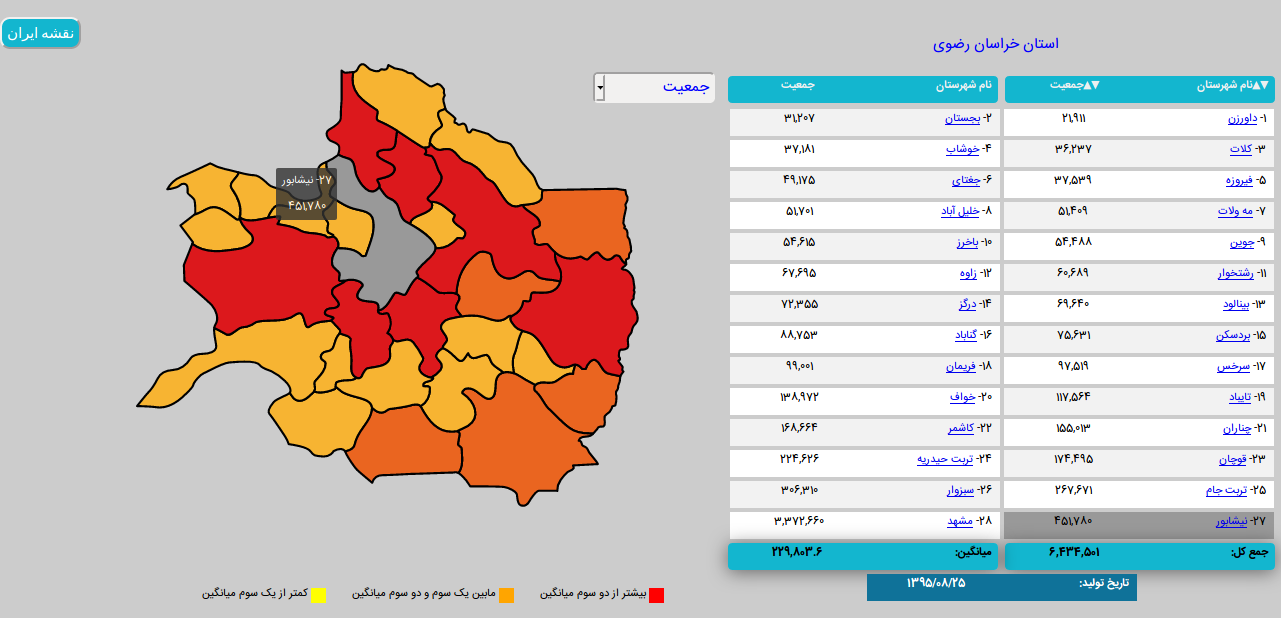
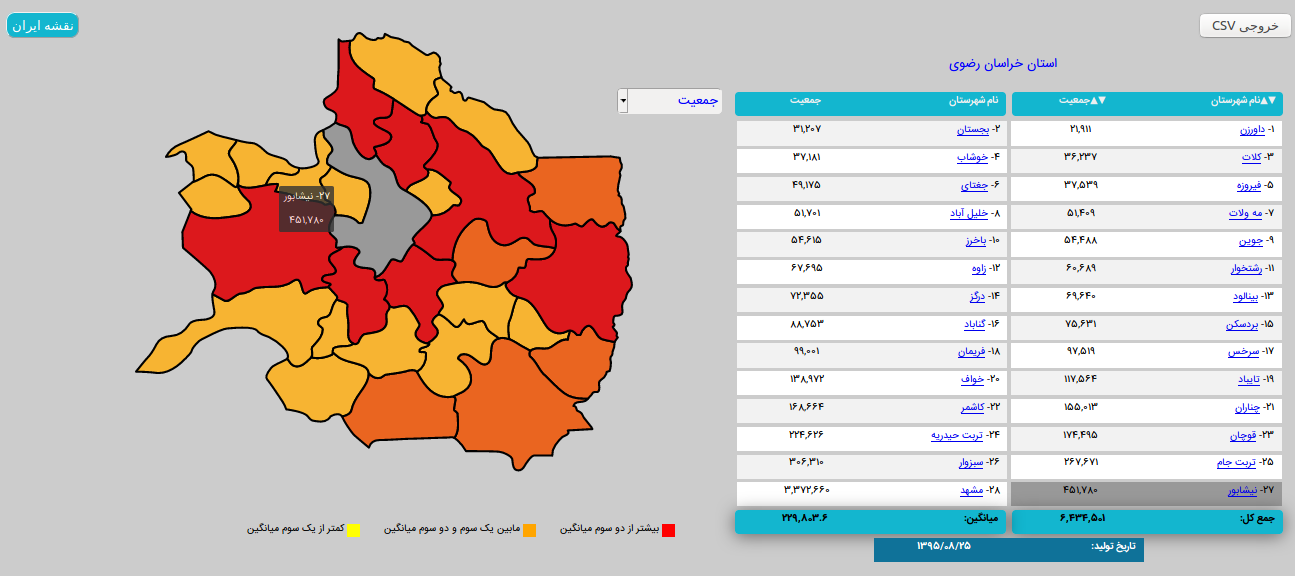
export CSV file added

diff --git a/js/exportCSV.js b/js/exportCSV.js
@@ -1,0 +1,66 @@
+$('#export').click(function(e) {
+	
+  e.preventDefault();	
+  var titles = [];
+  var data = [];
+
+  /*
+   * Get the table headers, this will be CSV headers
+   * The count of headers will be CSV string separator
+   */
+  $('table tr:eq(1) th').each(function() {
+    titles.push($(this).text());
+  });
+
+  /*
+   * Get the actual data, this will contain all the data, in 1 array
+   */
+  $('table td').each(function() {
+	  if ($(this).find("a").length != 0)
+		 data.push($(this).find("a").text());
+	  else
+         data.push($(this).text());
+  });
+  
+  /*
+   * Convert our data to CSV string
+   */
+  var CSVString = prepCSVRow(titles, titles.length, '');
+  CSVString = prepCSVRow(data, titles.length, CSVString);
+
+  /*
+   * Make CSV downloadable
+   */
+  var downloadLink = document.createElement("a");
+  var blob = new Blob([CSVString]);
+  var url = URL.createObjectURL(blob);
+  downloadLink.href = url;
+  downloadLink.download = "data.csv";
+
+  /*
+   * Actually download CSV
+   */
+
+  document.body.appendChild(downloadLink);
+  downloadLink.click();
+  document.body.removeChild(downloadLink);
+});
+
+   /*
+* Convert data array to CSV string
+* @param arr {Array} - the actual data
+* @param columnCount {Number} - the amount to split the data into columns
+* @param initial {String} - initial string to append to CSV string
+* return {String} - ready CSV string
+*/
+function prepCSVRow(arr, columnCount, initial) {
+  var row = ''; // this will hold data
+  var delimeter = ','; // data slice separator, in excel it's `;`, in usual CSv it's `,`
+  var newLine = '\r\n'; // newline separator for CSV row
+
+  arr.forEach(function(arrItem, idx) {
+      row += '"' + arrItem + '"' + ((idx+1)%columnCount == 0 ? newLine : delimeter);
+  });
+
+  return initial + row;
+}

diff --git a/iranmap.html b/iranmap.html
@@ -9,6 +9,10 @@
         <script type="text/javascript" src="js/hover_x.js"></script>		
 		<script type="text/javascript" src="js/sort_table.js"></script>
 		<script type="text/javascript" src="js/DropdownSel.js"></script>
+        <script>
+	     sessionStorage.setItem("map_type", "Prov");
+	</script>
+
     </head>
 	
     <body>
@@ -1817,6 +1821,8 @@
             </div>
 			
             <div id="items_list">
+			   <button id="export" type="button">خروجی CSV</button>
+
 			   <div id="items_table">
                <table>
 			      <thead>
@@ -2068,8 +2074,6 @@
 				
             </div>
         </div>
-	    <script>
-		   	sessionStorage.setItem("map_type", "Prov");
-		</script>
+		<script type="text/javascript" src="js/exportCSV.js"></script> 
     </body>
 </html>

diff --git a/js/load_x.js b/js/load_x.js
@@ -84,6 +84,7 @@ function load_HTML(fname_HTML) {
 		$.getScript("./js/hover_x.js");  // Both county and main map need the script
 		$.getScript("./js/sort_table.js"); // Both county and main map need the script
 		$.getScript("./js/DropdownSel.js"); // Both county and main map need the script
+		$.getScript("./js/exportCSV.js"); // Both county and main map need the script
 
 			
 		if(fname_HTML.includes("iranmap")) {   

diff --git a/Counties_in_Province/09-chahar-mahaal-bakhtiari/chahar-mahaal-bakhtiari_counties.html b/Counties_in_Province/09-chahar-mahaal-bakhtiari/chahar-mahaal-bakhtiari_counties.html
@@ -26,6 +26,8 @@
             </div>
 			
             <div id="items_list">
+		       <button id="export">خروجی CSV</button>
+
 		       <div id="prov_name" data-province-name="chahar-mahaal-bakhtiari"><p>استان چهارمحال و بختیاری</p></div>
 
   			   <div id="items_table">

diff --git a/Counties_in_Province/23-kohgiluyeh-boyer-ahmad/kohgiluyeh-boyer-ahmad_counties.html b/Counties_in_Province/23-kohgiluyeh-boyer-ahmad/kohgiluyeh-boyer-ahmad_counties.html
@@ -24,6 +24,8 @@
             </div>
 			
             <div id="items_list">
+			   <button id="export">خروجی CSV</button>
+
 			   <div id="prov_name" data-province-name="kohgiluyeh-boyer-ahmad"><p>استان کهگیلویه و بویراحمد</p></div>
 
 			   <div id="items_table">

diff --git a/Counties_in_Province/16-sistan-baluchestan/sistan-baluchestan_counties.html b/Counties_in_Province/16-sistan-baluchestan/sistan-baluchestan_counties.html
@@ -35,6 +35,8 @@
             </div>
 			
             <div id="items_list">
+			   <button id="export">خروجی CSV</button>
+
 			   <div id="prov_name" data-province-name="sistan-baluchestan"><p>استان سیستان و بلوچستان</p></div>
 
 			   <div id="items_table">

diff --git a/Counties_in_Province/02-azerbaijan-west/azerbaijan-west_counties.html b/Counties_in_Province/02-azerbaijan-west/azerbaijan-west_counties.html
@@ -34,6 +34,8 @@
             </div>
 			
             <div id="items_list">
+		       <button id="export">خروجی CSV</button>
+
 		       <div id="prov_name" data-province-name="azerbaijan-west"><p>آذربایجان غربی</p></div>
 			   
 			   <div id="items_table">

diff --git a/Counties_in_Province/12-khorasan-north/khorasan-north_counties.html b/Counties_in_Province/12-khorasan-north/khorasan-north_counties.html
@@ -24,6 +24,8 @@
             </div>
 			
             <div id="items_list">
+			   <button id="export">خروجی CSV</button>
+
 			   <div id="prov_name" data-province-name="khorasan-north"><p>استان خراسان شمالی</p></div>
 			   
 			   <div id="items_table">

diff --git a/Counties_in_Province/01-azerbaijan-east/azerbaijan-east_counties.html b/Counties_in_Province/01-azerbaijan-east/azerbaijan-east_counties.html
@@ -37,6 +37,8 @@
             </div>
 			
             <div id="items_list">
+			   <button id="export">خروجی CSV</button>
+
 			   <div id="prov_name" data-province-name="azerbaijan-east"><p>استان آذربایجان شرقی</p></div>
 
 			   <div id="items_table">

diff --git a/Counties_in_Province/10-khorasan-south/khorasan-south_counties.html b/Counties_in_Province/10-khorasan-south/khorasan-south_counties.html
@@ -27,6 +27,8 @@
             </div>
 			
             <div id="items_list">
+			   <button id="export">خروجی CSV</button>
+
 			   <div id="prov_name" data-province-name="khorasan-south"><p>استان خراسان جنوبی</p></div>
 
 			   <div id="items_table">

diff --git a/Counties_in_Province/11-khorasan-razavi/khorasan-razavi_counties.html b/Counties_in_Province/11-khorasan-razavi/khorasan-razavi_counties.html
@@ -44,6 +44,8 @@
             </div>
 			
             <div id="items_list">
+			   <button id="export">خروجی CSV</button>
+
 			   <div id="prov_name" data-province-name="khorasan-razavi"><p>استان خراسان رضوی</p></div>
 
 			   <div id="items_table">

diff --git a/Counties_in_Province/22-kermanshah/kermanshah_counties.html b/Counties_in_Province/22-kermanshah/kermanshah_counties.html
@@ -31,6 +31,8 @@
             </div>
 			
             <div id="items_list">
+		       <button id="export">خروجی CSV</button>
+
 		       <div id="prov_name" data-province-name="kermanshah"><p>استان کرمانشاه</p></div>
 
 			   <div id="items_table">
